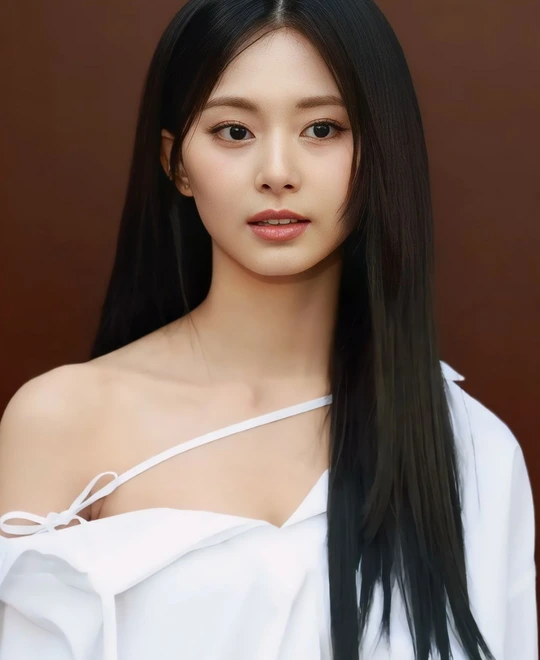
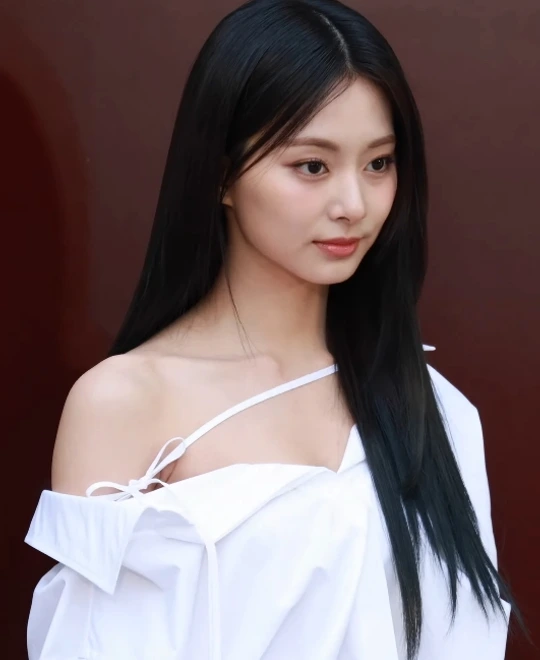
feat: actualizar diseño de tarjetas de miembros y fotos auténticas por era

diff --git a/src/styles/members.css b/src/styles/members.css
@@ -552,6 +552,23 @@
   border-color: color-mix(in srgb, var(--member) 50%, #ebdbe2);
 }
 
+.char-chip-avatar {
+  width: 32px;
+  height: 32px;
+  object-fit: contain;
+  border-radius: 8px;
+  flex-shrink: 0;
+  background: color-mix(in srgb, var(--member) 18%, #ffffff);
+  padding: 2px;
+  border: 1px solid color-mix(in srgb, var(--member) 40%, rgba(200, 180, 195, 0.4));
+  box-shadow: 0 2px 6px rgba(0, 0, 0, 0.08);
+  transition: transform 0.22s ease;
+}
+
+.char-chip:hover .char-chip-avatar {
+  transform: scale(1.12) rotate(-3deg);
+}
+
 .char-symbol {
   display: grid;
   width: 32px;
@@ -738,12 +755,117 @@
   background: #1e1121;
 }
 
-[data-theme="dark"] .member-info h3 {
-  color: var(--ink);
+[data-theme="dark"] .photocard-front {
+  background: #150b18;
+  border-color: color-mix(in srgb, var(--member) 40%, rgba(255, 255, 255, 0.12));
+  box-shadow: inset 0 0 0 1px rgba(255, 255, 255, 0.06);
 }
 
-[data-theme="dark"] .member-info-sub {
-  color: var(--muted);
+[data-theme="dark"] .photocard-flip-btn {
+  background: rgba(20, 10, 22, 0.85);
+  color: #ffffff;
+  border-color: rgba(255, 255, 255, 0.22);
+  box-shadow: 0 4px 14px rgba(0, 0, 0, 0.45);
+}
+
+[data-theme="dark"] .photocard-flip-btn:hover {
+  background: var(--member);
+  color: #110712;
+  border-color: var(--member);
+}
+
+[data-theme="dark"] .member-number {
+  color: color-mix(in srgb, var(--member) 85%, #ffffff);
+  text-shadow: 0 0 12px color-mix(in srgb, var(--member) 40%, transparent);
+}
+
+[data-theme="dark"] .member-hangul-sub {
+  color: rgba(255, 255, 255, 0.65);
+}
+
+[data-theme="dark"] .member-title {
+  color: #ffffff;
+  text-shadow: 0 2px 10px rgba(0, 0, 0, 0.6);
+}
+
+[data-theme="dark"] .member-color-tag {
+  background: rgba(255, 255, 255, 0.07);
+  border-color: color-mix(in srgb, var(--member) 50%, rgba(255, 255, 255, 0.16));
+  color: #ffffff;
+}
+
+[data-theme="dark"] .member-color-tag i {
+  border-color: rgba(255, 255, 255, 0.85);
+  box-shadow: 0 0 8px color-mix(in srgb, var(--member) 80%, transparent);
+}
+
+[data-theme="dark"] .member-ig-badge {
+  background: rgba(225, 48, 108, 0.18);
+  border-color: rgba(225, 48, 108, 0.45);
+  color: #ff7ebb;
+}
+
+[data-theme="dark"] .member-ig-badge:hover {
+  background: #c13584;
+  color: #ffffff;
+  border-color: #c13584;
+}
+
+[data-theme="dark"] .member-expand-hint {
+  background: rgba(255, 255, 255, 0.08);
+  color: #ffffff;
+  border-color: rgba(255, 255, 255, 0.18);
+}
+
+[data-theme="dark"] .member-card:hover .member-expand-hint {
+  background: var(--member);
+  border-color: var(--member);
+  color: #110712;
+}
+
+[data-theme="dark"] .member-card[open] .member-expand-hint {
+  background: rgba(255, 255, 255, 0.15);
+  border-color: rgba(255, 255, 255, 0.25);
+  color: #ffffff;
+}
+
+/* Chips de personajes Lovely y TDOONGZ en tema oscuro */
+[data-theme="dark"] .char-chip {
+  background: rgba(255, 255, 255, 0.05);
+  border: 1px solid rgba(255, 255, 255, 0.12);
+  backdrop-filter: blur(8px);
+}
+
+[data-theme="dark"] .char-chip:hover {
+  background: rgba(255, 255, 255, 0.1);
+  border-color: color-mix(in srgb, var(--member) 70%, rgba(255, 255, 255, 0.3));
+  box-shadow: 0 4px 18px color-mix(in srgb, var(--member) 35%, transparent);
+}
+
+[data-theme="dark"] .char-chip-avatar {
+  background: rgba(255, 255, 255, 0.08);
+  border-color: color-mix(in srgb, var(--member) 50%, rgba(255, 255, 255, 0.2));
+  box-shadow: 0 2px 8px rgba(0, 0, 0, 0.4);
+}
+
+[data-theme="dark"] .char-symbol {
+  background: color-mix(in srgb, var(--member) 25%, rgba(255, 255, 255, 0.08));
+  border-color: color-mix(in srgb, var(--member) 50%, transparent);
+  color: #ffffff;
+}
+
+[data-theme="dark"] .char-info small {
+  color: rgba(255, 255, 255, 0.55);
+}
+
+[data-theme="dark"] .char-info strong {
+  color: #ffffff;
+}
+
+/* Ficha desplegable interna */
+[data-theme="dark"] .member-details-drawer {
+  background: linear-gradient(180deg, #1b0f1e, #140a16);
+  border-top-color: rgba(232, 62, 134, 0.28);
 }
 
 [data-theme="dark"] .member-meta-grid {
@@ -751,33 +873,36 @@
   border-color: rgba(255, 255, 255, 0.08);
 }
 
-[data-theme="dark"] .meta-cell {
-  border-color: rgba(255, 255, 255, 0.08);
+[data-theme="dark"] .member-meta-item small {
+  color: rgba(255, 255, 255, 0.52);
 }
 
-[data-theme="dark"] .meta-label {
-  color: var(--muted-light);
+[data-theme="dark"] .member-meta-item strong {
+  color: #ffffff;
 }
 
-[data-theme="dark"] .meta-val {
-  color: var(--ink);
+[data-theme="dark"] .meta-social-link {
+  color: #ff7ebb;
 }
 
 [data-theme="dark"] .member-bio {
-  color: var(--muted);
-}
-
-[data-theme="dark"] .member-expand-hint {
-  background: rgba(255, 255, 255, 0.06);
-  color: var(--muted);
-  border-color: rgba(255, 255, 255, 0.1);
+  color: rgba(255, 255, 255, 0.82);
 }
 
 [data-theme="dark"] .char-bio-item {
-  background: rgba(255, 255, 255, 0.04);
-  color: var(--ink);
+  background: rgba(255, 255, 255, 0.05);
+  border: 1px solid rgba(255, 255, 255, 0.1);
 }
 
 [data-theme="dark"] .char-bio-item.tdoongz-bio {
-  background: rgba(140, 115, 168, 0.08);
+  background: rgba(140, 115, 168, 0.1);
+  border-color: rgba(180, 150, 210, 0.2);
+}
+
+[data-theme="dark"] .char-bio-item p {
+  color: rgba(255, 255, 255, 0.85);
+}
+
+[data-theme="dark"] .char-bio-item p strong {
+  color: #ffffff;
 }

diff --git a/scripts/scrapers/download-exact-era-portraits.js b/scripts/scrapers/download-exact-era-portraits.js
@@ -1,0 +1,150 @@
+import fs from 'fs';
+import path from 'path';
+import sharp from 'sharp';
+
+const BROWSER_HEADERS = {
+  'User-Agent': 'TwiceEraPortraitsArchiver/2.0 (contact: archive@once.timeline.org)',
+  'Referer': 'https://commons.wikimedia.org/',
+};
+
+const ERA_SELECTION = [
+  {
+    id: 'nayeon',
+    classic: 'File:Nayeon in 2017 Fan meeting.jpg',
+    between: 'File:220701 Nayeon(나연) of Twice MusicBank Fancam.jpg',
+    current: 'File:241024 TWICE Nayeon.jpg',
+  },
+  {
+    id: 'jeongyeon',
+    classic: 'File:Jeongyeon in 2017.jpg',
+    between: 'File:220328 Yoo Jeong-yeon TWICE digital film.jpg',
+    current: 'File:Twice Jeongyeon in 2023 03.jpg',
+  },
+  {
+    id: 'momo',
+    classic: 'File:171030 트와이스 LIKEY 쇼케이스 모모 (2).jpg',
+    between: 'File:Momo in 2022.jpg',
+    current: 'File:TWICE MOMO April 2024.jpg',
+  },
+  {
+    id: 'sana',
+    classic: 'File:(17.05.26)뮤직뱅크 TWICE 사나 (1).jpg',
+    between: 'File:Sana in an fan-event in 2022 (cropped).jpg',
+    current: 'File:20240809 Sana Minatozaki 湊﨑 紗夏 for PRADA 2024 01.jpg',
+  },
+  {
+    id: 'jihyo',
+    classic: 'File:170610 영등포팬싸 지효.jpg',
+    between: 'File:Jihyo in 2022.jpg',
+    current: 'File:TWICE Jihyo Fred May 2024.jpg',
+  },
+  {
+    id: 'mina',
+    classic: 'File:Mina in 2017.jpg',
+    between: 'File:Mina in 2022.jpg',
+    current: 'File:Mina Sharon Myoui 名井 南 2024 01.png',
+  },
+  {
+    id: 'dahyun',
+    classic: 'File:Dahyun in 2017.jpg',
+    between: 'File:Dahyun 2022.jpg',
+    current: 'File:DAHYUN (다현) – 2024.02.12 – P1.png',
+  },
+  {
+    id: 'chaeyoung',
+    classic: 'File:171015 경희대 평화의전당 팬미팅 트와이스 채영 (1).jpg',
+    between: 'File:Chaeyoung in 2022 01.jpg',
+    current: 'File:241204 Chaeyoung at Rokh H&M (2).png',
+  },
+  {
+    id: 'tzuyu',
+    classic: 'File:17.05.26 뮤직뱅크 TWICE 쯔위 (2).jpg',
+    between: 'File:Tzuyu in 2022.jpg',
+    current: 'File:20240305 Chou Tzuyu 周子瑜 01.jpg',
+  },
+];
+
+const sleep = ms => new Promise(r => setTimeout(r, ms));
+
+async function getWikimediaUrl(fileTitle) {
+  const url = `https://commons.wikimedia.org/w/api.php?action=query&titles=${encodeURIComponent(fileTitle)}&prop=imageinfo&iiprop=url&format=json`;
+  const res = await fetch(url, { headers: BROWSER_HEADERS });
+  if (!res.ok) return null;
+  const data = await res.json();
+  const page = Object.values(data.query?.pages || {})[0];
+  return page?.imageinfo?.[0]?.url || null;
+}
+
+async function downloadAndProcess(url, outPath) {
+  const res = await fetch(url, { headers: BROWSER_HEADERS });
+  if (!res.ok) throw new Error(`HTTP ${res.status}`);
+  const buffer = Buffer.from(await res.arrayBuffer());
+
+  await sharp(buffer)
+    .resize(540, 660, {
+      fit: 'cover',
+      position: sharp.strategy.attention,
+    })
+    .webp({ quality: 92 })
+    .toFile(outPath);
+
+  console.log(`Saved: ${path.basename(outPath)} (${fs.statSync(outPath).size} bytes)`);
+}
+
+async function main() {
+  const membersDir = path.join(process.cwd(), 'public', 'assets', 'members');
+  fs.mkdirSync(membersDir, { recursive: true });
+
+  for (const m of ERA_SELECTION) {
+    console.log(`\n================== Processing ${m.id} ==================`);
+    
+    // 1. Classic (2015-2018)
+    try {
+      await sleep(1100);
+      const url = await getWikimediaUrl(m.classic);
+      if (url) {
+        await sleep(1100);
+        await downloadAndProcess(url, path.join(membersDir, `${m.id}-classic.webp`));
+      } else {
+        console.warn(`Could not get url for classic: ${m.classic}`);
+      }
+    } catch (e) {
+      console.warn(`Classic error ${m.id}:`, e.message);
+    }
+
+    // 2. Between (2021-2022)
+    try {
+      await sleep(1100);
+      const url = await getWikimediaUrl(m.between);
+      if (url) {
+        await sleep(1100);
+        await downloadAndProcess(url, path.join(membersDir, `${m.id}-between.webp`));
+      } else {
+        console.warn(`Could not get url for between: ${m.between}`);
+      }
+    } catch (e) {
+      console.warn(`Between error ${m.id}:`, e.message);
+    }
+
+    // 3. Current (2023-2025)
+    try {
+      await sleep(1100);
+      const url = await getWikimediaUrl(m.current);
+      if (url) {
+        await sleep(1100);
+        const curPath = path.join(membersDir, `${m.id}-current.webp`);
+        await downloadAndProcess(url, curPath);
+        // Also copy as default avatar
+        fs.copyFileSync(curPath, path.join(membersDir, `${m.id}.webp`));
+      } else {
+        console.warn(`Could not get url for current: ${m.current}`);
+      }
+    } catch (e) {
+      console.warn(`Current error ${m.id}:`, e.message);
+    }
+  }
+
+  console.log('\nAll era portraits updated successfully!');
+}
+
+main().catch(console.error);
